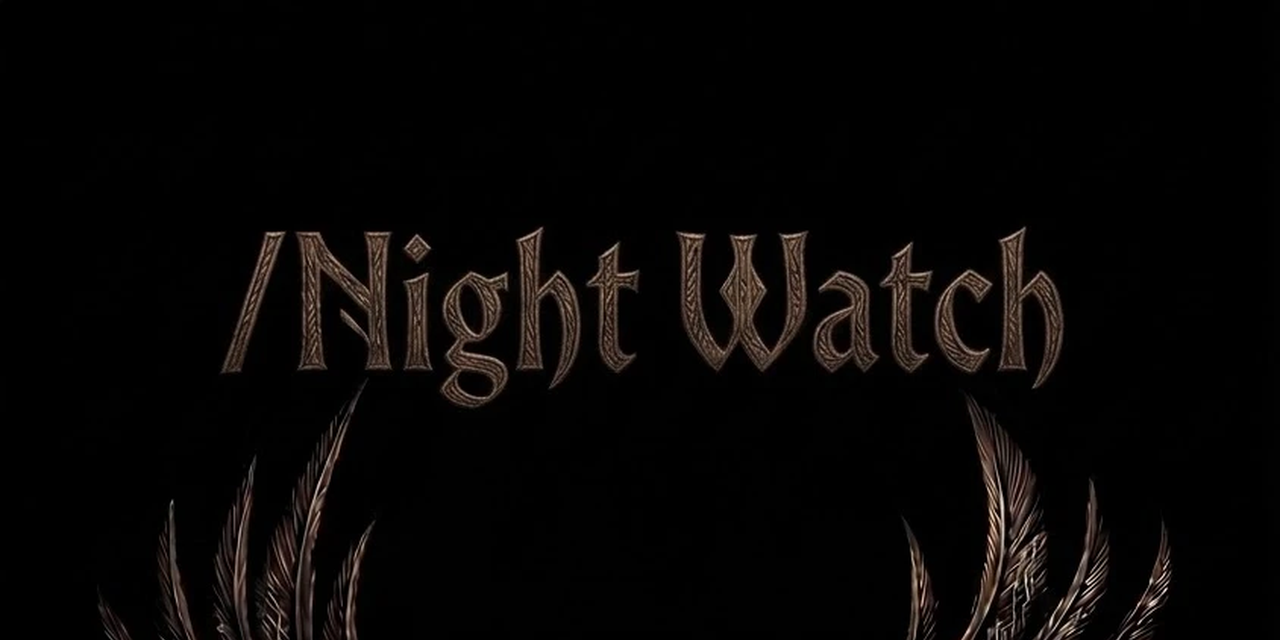
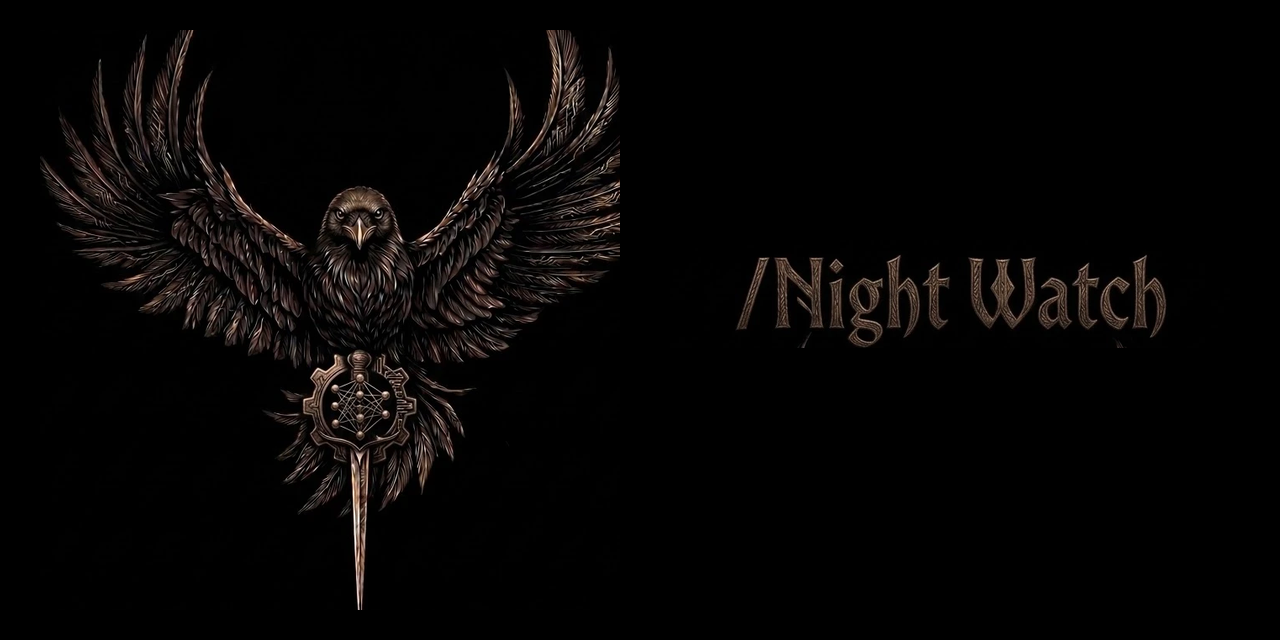
Rebuild the social card, and credit the mark
The first pass resized the portrait poster to 1280 wide and cropped the top 640
— which kept the wordmark and threw away the raven, the half that reads at
thumbnail size. Recomposed from two crops of the original.

Pasting them onto a new canvas left visible rectangles, because the canvas
black was a guess and the source's is pure #000. Sampled it, then composited
with a lighten blend rather than a paste: the art is bright-on-black, so
lightening carries the subject and leaves the ground alone, and the seams stop
existing rather than being hidden behind a colour that nearly matches.

Changed region(s): [[0.0312, 0.0312, 0.5, 1.0], [0.5312, 0.3438, 0.9375, 0.5938], [0.6875, 0.625, 0.9375, 1.0]]

diff --git a/README.md b/README.md
@@ -225,6 +225,17 @@ night-watch/
     └── verify_shift.py       ancestry, not existence
 ```
 
+## The mark
+
+A tribute, and the right one: the oath on the poster belongs to the Night's Watch, who keep a watch
+while everyone else sleeps — and the raven is Westeros's messenger, which is the other half of what
+this skill does. It works overnight and it reports in the morning.
+
+`assets/` carries three cuts of it: the poster (`night-watch.webp`, the README hero), a square
+`avatar.png` with the caption cropped away for anywhere it renders small, and a 1280×640
+`social-preview.png` for GitHub's social preview setting — which is web-only, under
+*Settings → General → Social preview*.
+
 ## Licence
 
 MIT — see [LICENSE](LICENSE).
